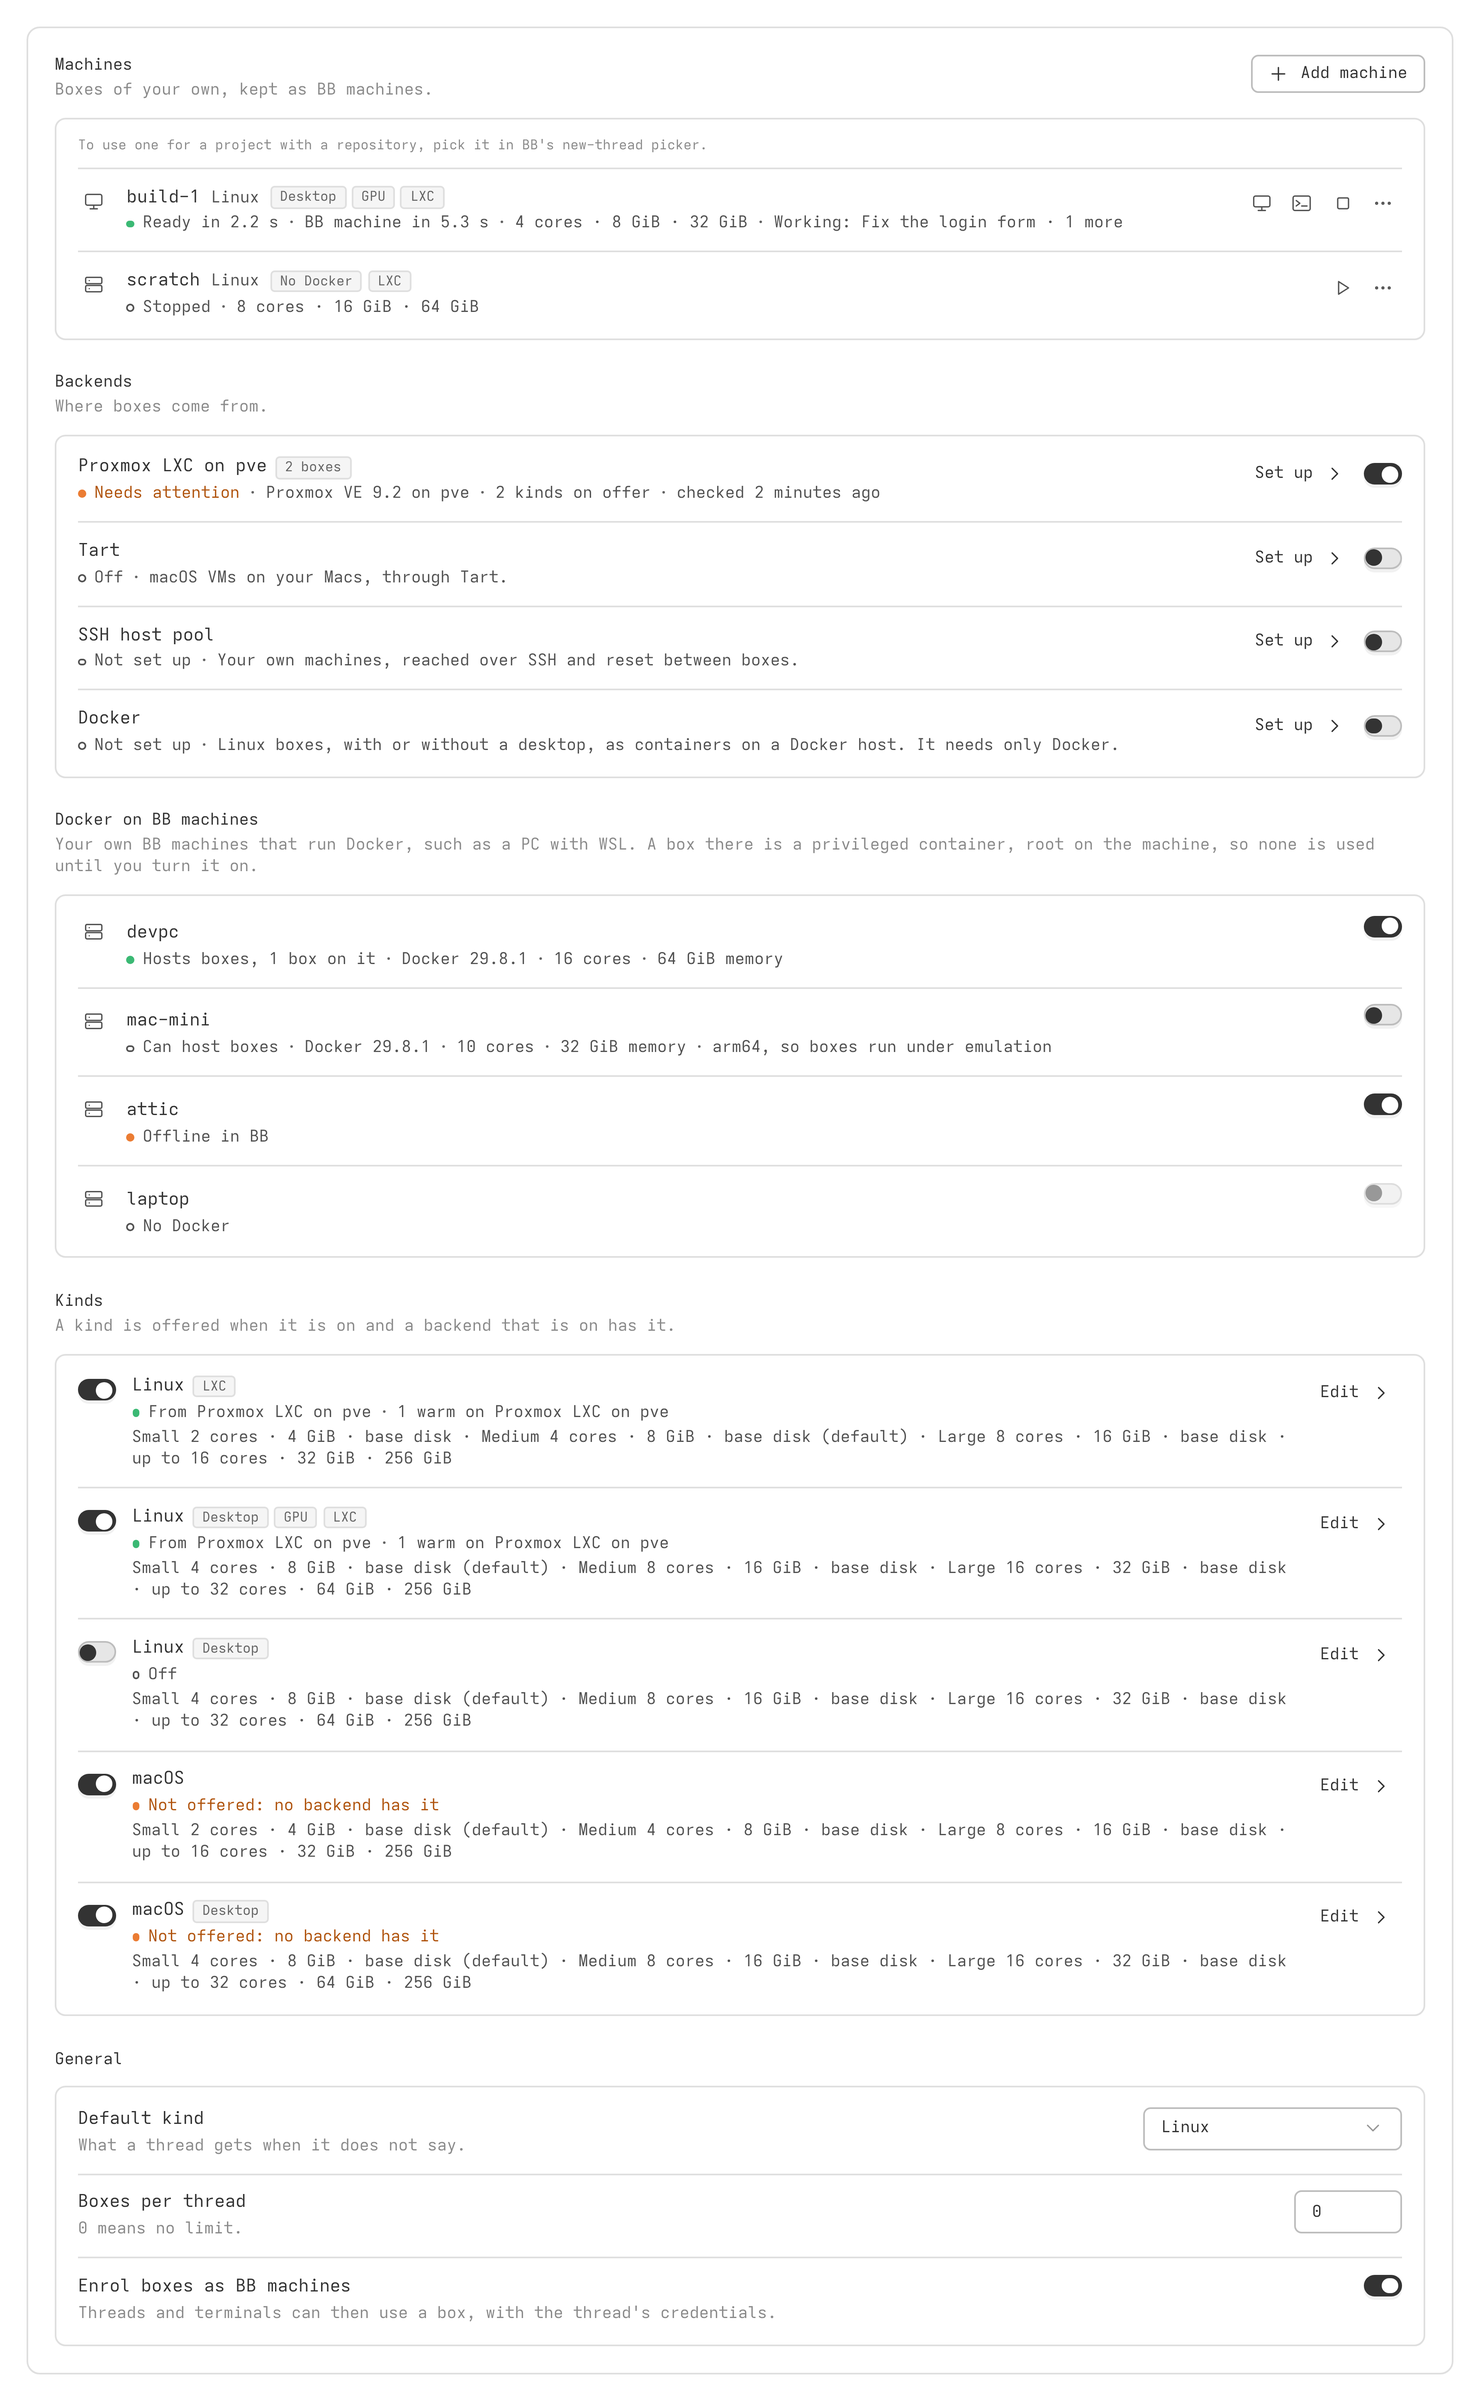
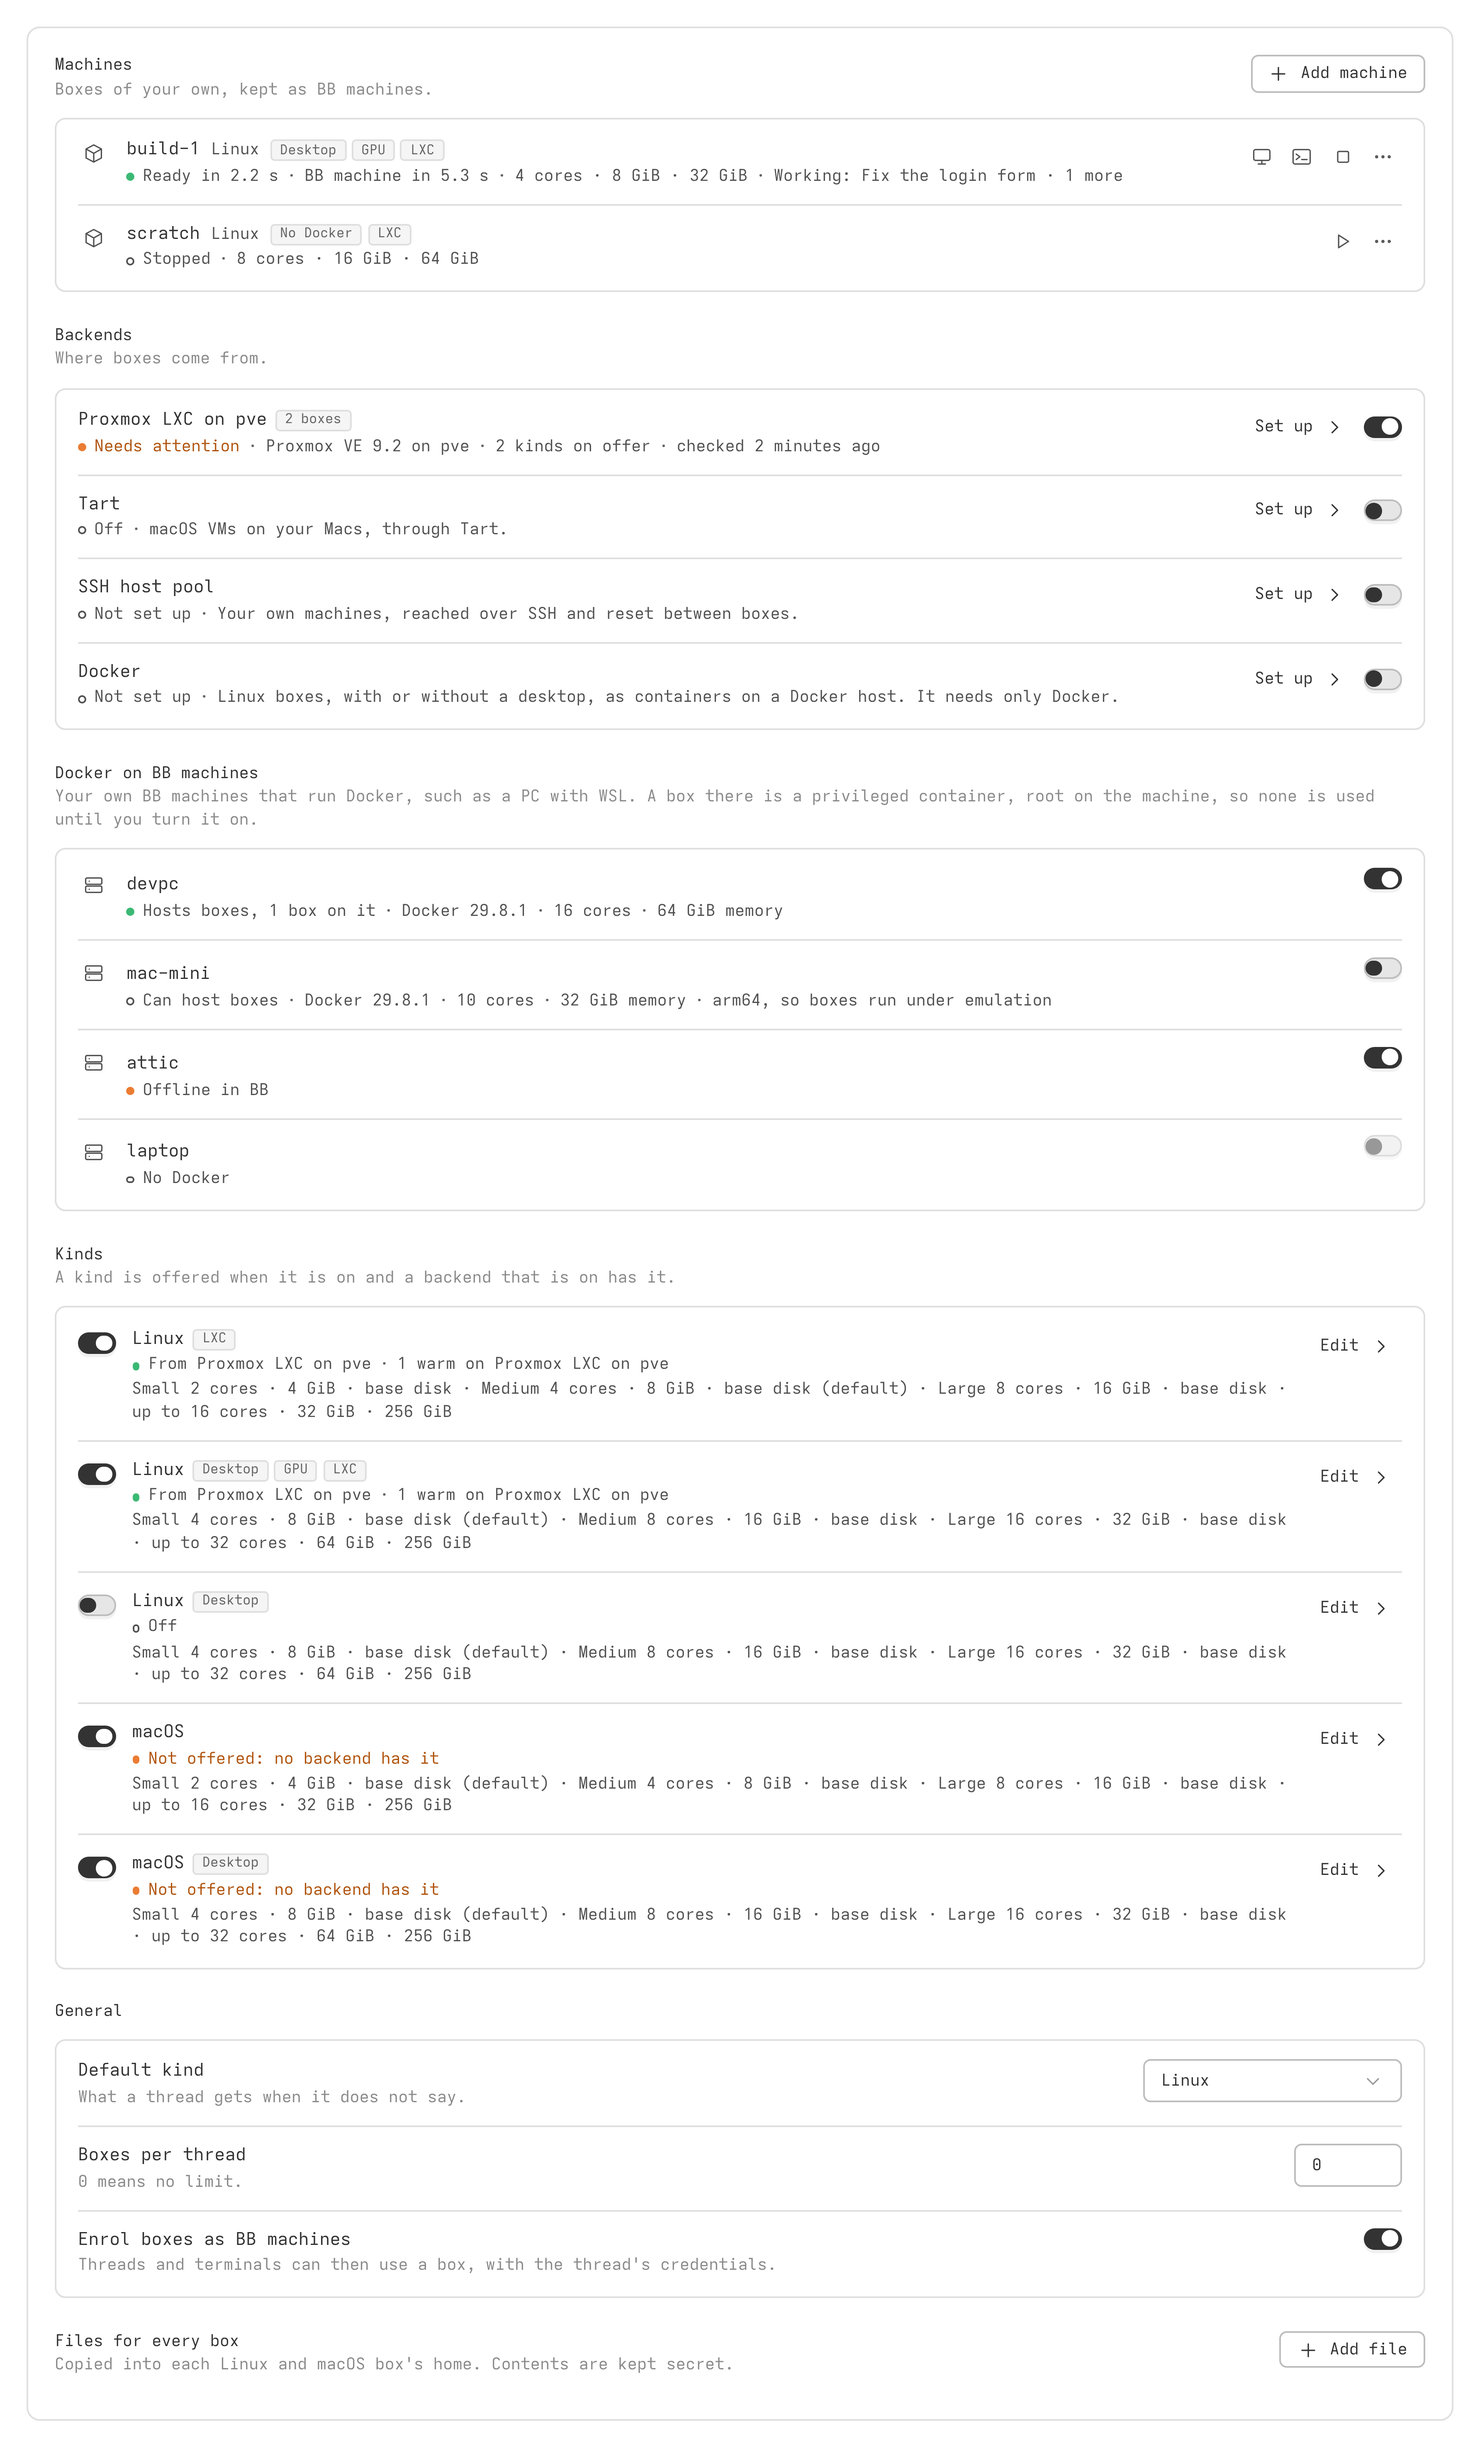
fix(app): settings' Machines lose the picker line and lead with the cube; Files for every box gets one line and "+ Add file" in its header
Three operator notes of 4 October 2026 on the settings page.

Machines: "I think we should remove this", on the line inside the list,
"To use one for a project with a repository, pick it in BB's new-thread
picker." It goes; the docs say how a project with a repository uses a
machine. And the rows led with the monitor or server glyph still: now the
cube, as #412 made every other box row; the type reads in the badges.

Files for every box: "Can this be shortened?", on its three-line
description. It is one line, "Copied into each Linux and macOS box's home.
Contents are kept secret."; the details live in the docs. The add button
sits in the section header's right as "+ Add file", as Machines' Add
machine does, greyed while a file is being added; the card below shows
only with something in it (files, the editor or a problem), so an empty
section is its header alone, with no bordered box around a lone button.

Settings scenes reshot; settings.md follows; the tests follow the words.

diff --git a/src/app/settings-files.tsx b/src/app/settings-files.tsx
@@ -2,6 +2,7 @@
 // its content, which is a secret. The page shows whether each content is
 // set, and takes a new one or removes the file, but never shows a content.
 
+import { experimental_Icon as Icon } from "@get-bb/plugin-sdk/app";
 import { Button } from "@/components/ui/button";
 import { Input } from "@/components/ui/input";
 import { Textarea } from "@/components/ui/textarea";
@@ -29,13 +30,22 @@ export function BoxFilesSection({ files, problems, save }: { files: readonly Box
     }
   };
   return (
+    // One line (the operator, 4 October 2026: "Can this be shortened?"); the details are in the docs. Add file sits in the
+    // header as Machines' Add machine does, and the card shows only with something in it: no empty box with a lone button.
     <Section
       title="Files for every box"
-      description="bb-box writes each into the home of every Linux and macOS box as it joins BB, and into running boxes when you change them, readable by the box user only: for example pi's .pi/agent/models.json. A content can hold an API key, so it is kept as a secret and never shown again."
+      description="Copied into each Linux and macOS box's home. Contents are kept secret."
+      action={
+        <Button type="button" variant="outline" size="sm" className="h-7" disabled={busy || editing !== null} onClick={() => setEditing({ index: null, path: "", content: "" })}>
+          <Icon name="Plus" aria-hidden />
+          Add file
+        </Button>
+      }
+      plain={!files.length && !editing && !problems.length}
     >
-      <div className="flex flex-col gap-2">
+      <>
         {files.map((file, index) => (
-          <div key={file.path} className="flex items-center justify-between gap-3">
+          <div key={file.path} className="flex items-center justify-between gap-3 py-2 first:pt-0 last:pb-0">
             <code className="min-w-0 truncate text-xs text-foreground">{file.path}</code>
             <div className="flex shrink-0 items-center gap-1.5">
               <span className="text-xs text-subtle-foreground">{isSet(file) ? "Set" : "Not set"}</span>
@@ -49,7 +59,7 @@ export function BoxFilesSection({ files, problems, save }: { files: readonly Box
           </div>
         ))}
         {editing ? (
-          <div className="flex flex-col gap-1.5">
+          <div className="flex flex-col gap-1.5 py-2 first:pt-0 last:pb-0">
             <Input
               aria-label="Path under the box user's home"
               className="h-8 font-mono text-xs"
@@ -88,19 +98,13 @@ export function BoxFilesSection({ files, problems, save }: { files: readonly Box
               </Button>
             </div>
           </div>
-        ) : (
-          <div>
-            <Button type="button" variant="outline" size="sm" className="h-8" disabled={busy} onClick={() => setEditing({ index: null, path: "", content: "" })}>
-              Add a file
-            </Button>
-          </div>
-        )}
+        ) : null}
         {problems.map((problem) => (
-          <p key={problem.path} role="alert" className="text-xs text-destructive-text">
+          <p key={problem.path} role="alert" className="py-2 text-xs text-destructive-text first:pt-0 last:pb-0">
             {problem.message}
           </p>
         ))}
-      </div>
+      </>
     </Section>
   );
 }

diff --git a/src/app/settings-machines.tsx b/src/app/settings-machines.tsx
@@ -27,7 +27,7 @@ import { NewBox, type SizeRequest } from "./new-box.tsx";
 import { Section } from "./settings-fields.tsx";
 import { statusOf } from "./status.ts";
 import { canOpenTerminal } from "./terminal.tsx";
-import { MonitorGlyph, ServerGlyph, TerminalGlyph } from "./glyphs.tsx";
+import { BoxGlyph, MonitorGlyph, TerminalGlyph } from "./glyphs.tsx";
 
 
 type Guarded = "remove" | "stop";
@@ -92,12 +92,6 @@ export function MachinesSection() {
       {state && !machines.length ? (
         <EmptyPanel>Add a box as a BB machine of your own. It shows in BB's machine list and new-thread picker, and stays until you remove it here.</EmptyPanel>
       ) : null}
-      {machines.length ? (
-        // A project with a repository needs a source on a machine once, which BB's picker sets up (036).
-        <p className="pb-2 text-2xs leading-snug text-subtle-foreground/75">
-          To use one for a project with a repository, pick it in BB's new-thread picker.
-        </p>
-      ) : null}
       {machines.map((entry) => (
         <MachineRow key={entry.box.id} entry={entry} now={now} busy={busy} onStop={() => void act("stop", entry.box)} onStart={() => void act("start", entry.box)} onRemove={() => setRemoving(entry.box)} />
       ))}
@@ -159,7 +153,7 @@ function MachineRow({ entry, now, busy, onStop, onStart, onRemove }: { entry: Ma
   return (
     <div data-resource-row className={cn("grid min-w-0 grid-cols-[1.5rem_minmax(0,1fr)_auto] items-start gap-3 py-3 first:pt-0 last:pb-0", box.state === "releasing" && "opacity-60")}>
       <span className="flex size-6 shrink-0 items-center justify-center text-muted-foreground">
-        {box.desktop ? <MonitorGlyph /> : <ServerGlyph />}
+        <BoxGlyph />
       </span>
       <div className="min-w-0">
         <span className="flex min-w-0 flex-wrap items-center gap-x-2 gap-y-1">

diff --git a/test/app.test.tsx b/test/app.test.tsx
@@ -1311,7 +1311,7 @@ test("files for every box show each path and whether it is set, never a content,
   expect(slot.getByText("Set")).toBeTruthy();
   const sent = (at: number) => JSON.parse(changes[at]!.slice(changes[at]!.indexOf("{"))).general.files;
 
-  fireEvent.click(slot.getByRole("button", { name: "Add a file" }));
+  fireEvent.click(slot.getByRole("button", { name: "Add file" }));
   fireEvent.change(slot.getByRole("textbox", { name: "Path under the box user's home" }), { target: { value: " .config/tool/config.toml " } });
   fireEvent.change(slot.getByRole("textbox", { name: "The file's content" }), { target: { value: "key = 1" } });
   fireEvent.click(slot.getByRole("button", { name: "Save" }));
@@ -1940,7 +1940,8 @@ test("the settings page lists your machines with their threads and actions, and 
   expect(slot.getByText("Working: Fix the login form · 1 more")).toBeTruthy();
   expect(slot.getByText("scratch")).toBeTruthy();
   // Said once for the section, not under each machine.
-  expect(slot.getAllByText("To use one for a project with a repository, pick it in BB's new-thread picker.")).toHaveLength(1);
+  // No line inside the list about the new-thread picker (the operator, 4 October 2026).
+  expect(slot.queryByText(/pick it in BB's new-thread picker/)).toBeNull();
   expect(slot.getByRole("button", { name: "Open desktop" })).toBeTruthy();
   expect(slot.getByRole("button", { name: "Open terminal" })).toBeTruthy();
   expect(slot.getByRole("button", { name: "Stop" })).toBeTruthy();

diff --git a/docs/design/settings.md b/docs/design/settings.md
@@ -53,7 +53,7 @@ new-thread picker.
 Machines                                                    [+ Add machine]
 Boxes of your own, kept as BB machines.
 +----------------------------------------------------------------------------+
-| [#] build-1  Linux [Desktop] [GPU] [LXC]                [#] [>_] [stop] ... |
+| [o] build-1  Linux [Desktop] [GPU] [LXC]                [#] [>_] [stop] ... |
 |     (green) Ready in 2.2 s · BB machine in 5.3 s · 4 cores · 8 GiB         |
 |             · Working: Fix the login form · 1 more                          |
 | [=] scratch  Linux [LXC]                                      [start] ...   |
@@ -61,7 +61,8 @@ Boxes of your own, kept as BB machines.
 +----------------------------------------------------------------------------+
 ```
 
-- One row per machine, the panel's box row: glyph, name, the OS and badges,
+- One row per machine, the panel's box row: the cube glyph (#412, on every
+  box row; the type reads in the badges), name, the OS and badges,
   the status line with its start-up times, and the threads on its machine,
   the working ones named first ("Working: a, b · 1 more"; "Thread: a" when
   none is working).
@@ -93,8 +94,10 @@ Boxes of your own, kept as BB machines.
   BB's dashed empty panel on its own, with no card around it: one border
   spanning the section like the other cards, its text on a narrow centred
   measure, in the subtle foreground (the operator's notes of 1 October
-  2026). The hint above the rows reads "To use one for a
-  project with a repository, pick it in BB's new-thread picker."
+  2026). No hint sits inside the list: the line about BB's new-thread
+  picker went on the operator's note of 4 October 2026 ("I think we
+  should remove this"); the docs say how a project with a repository
+  uses a machine.
 - The section reads `machines.list` and refetches on the "operator"
   signal; `machines.add`, `machines.remove`, `machines.stop` and
   `machines.start` do the rest.
@@ -258,10 +261,15 @@ What a thread can ask for. A kind is offered when it is on and a backend has it.
 | Boxes per thread: the most one thread may hold. 0 means no limit. | a number field |
 | Enrol boxes as BB machines: a ready box joins BB, so threads and terminals can use it and it gets the thread's credentials. | a switch |
 
-Files for every box (#455) follows General: each file's path under the box
-user's home, "Set" or "Not set", and Replace and Remove; "Add a file" opens
-a path field and a text area for the content, which is a secret and never
-shown again. Each change saves at once.
+Files for every box (#455) follows General, with one line under its title,
+"Copied into each Linux and macOS box's home. Contents are kept secret."
+(the operator, 4 October 2026: "Can this be shortened?"; the details live
+here and in the architecture). "+ Add file" sits in the section header's
+right, as Machines' Add machine does; the card below lists each file's path
+under the box user's home, "Set" or "Not set", and Replace and Remove, and
+shows only with something in it, so an empty section is its header alone.
+Add file opens a path field and a text area for the content, which is a
+secret and never shown again. Each change saves at once.
 
 ## States and copy
 
